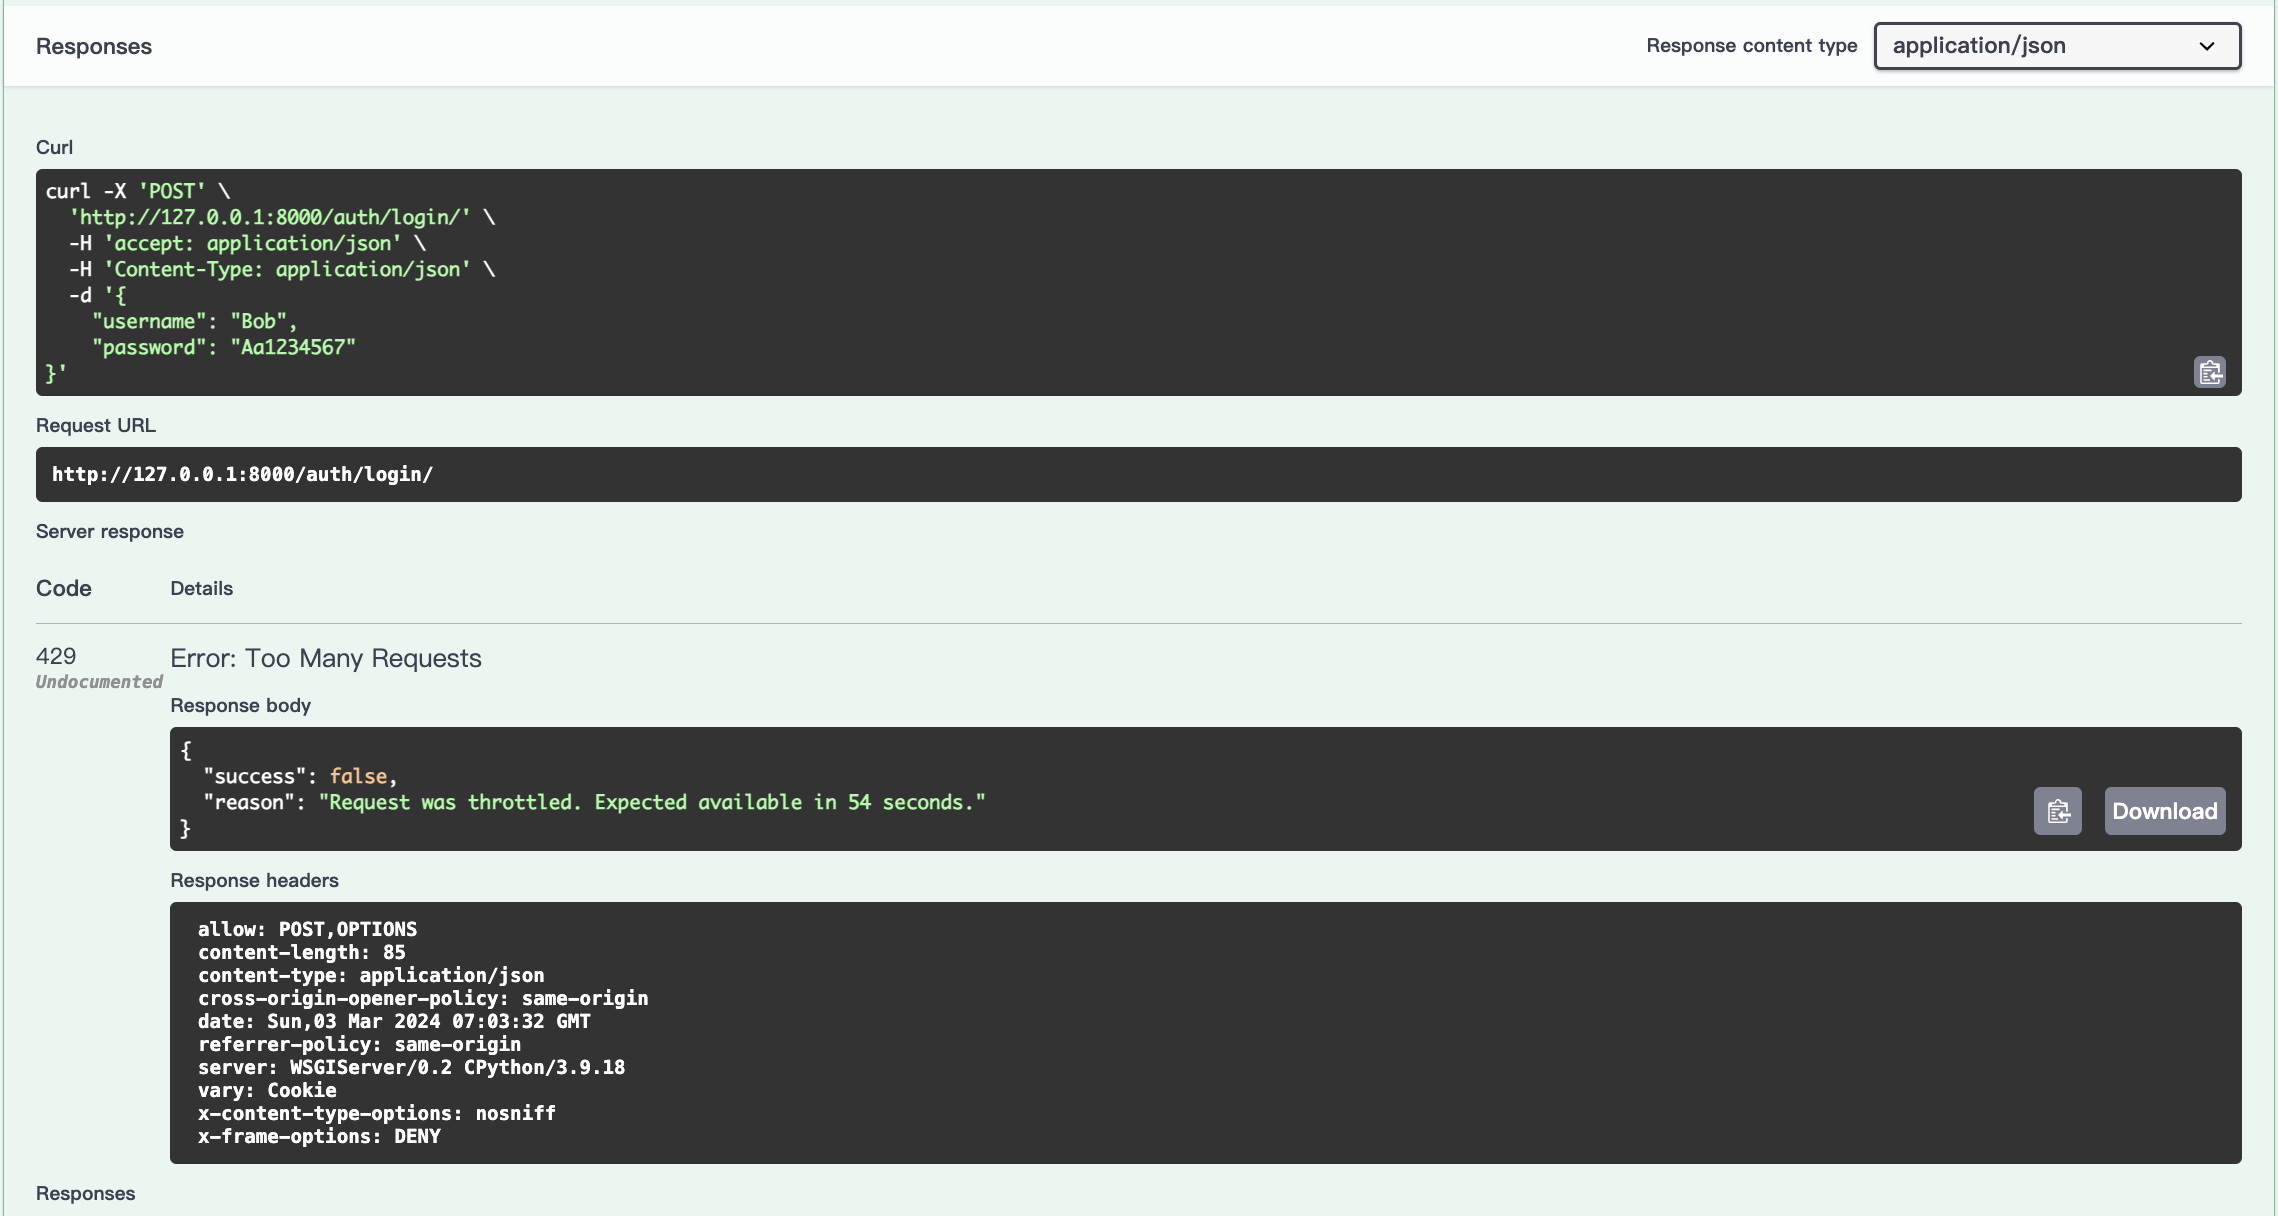
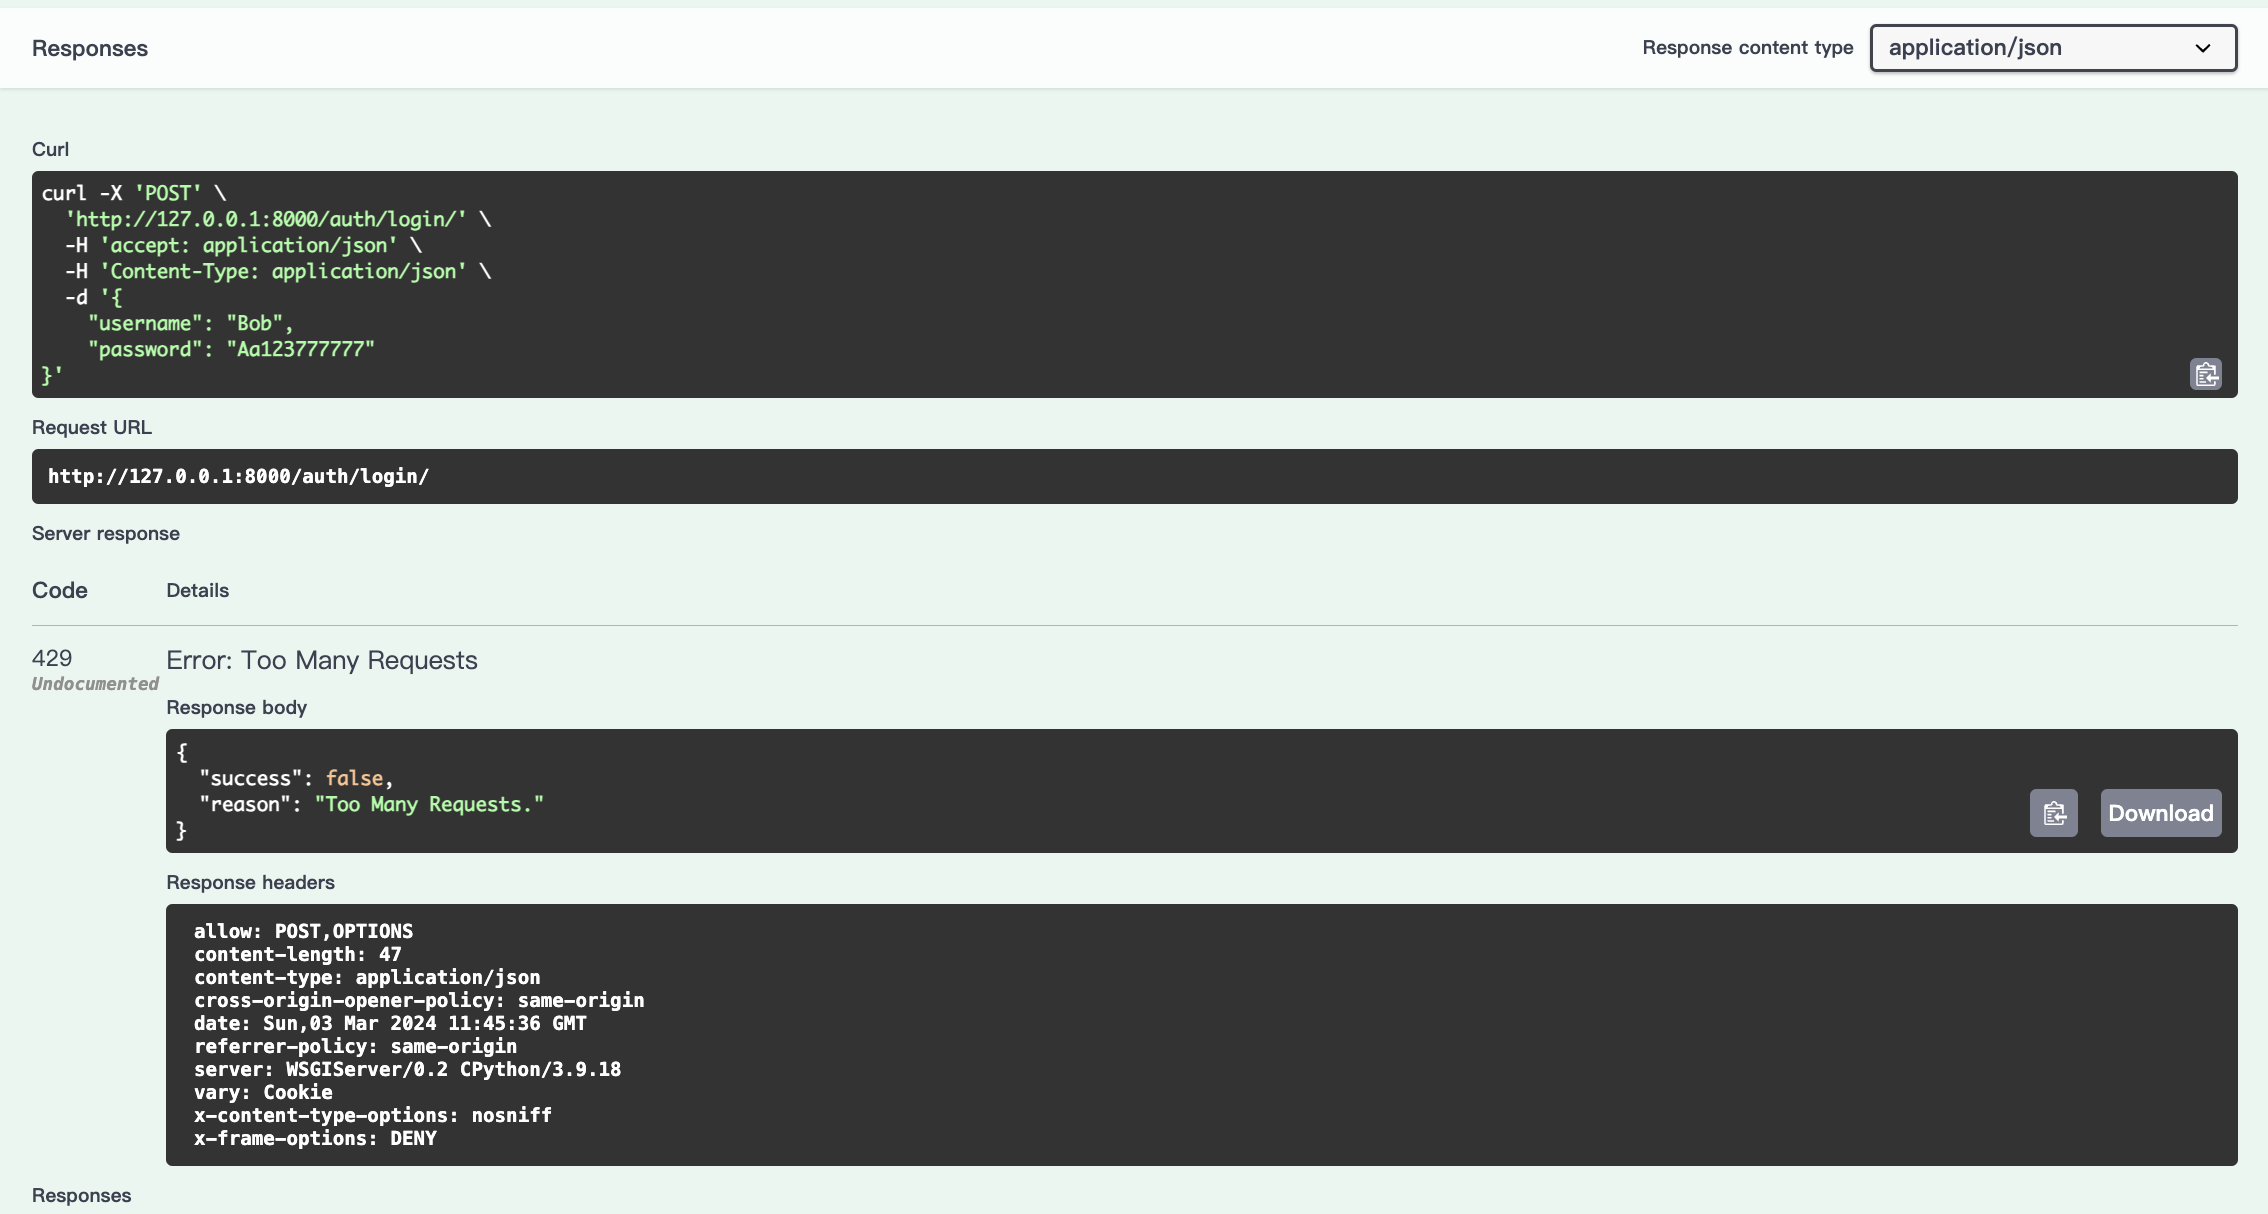
feat: add cache logic in login.

diff --git a/myproject/user/views.py b/myproject/user/views.py
@@ -56,6 +56,7 @@ class AuthViewSet(viewsets.ViewSet):
 
         # Cache get data
         if cache.get(data["username"]):
+            print("cached")
             raise serializers.ValidationError("User already exists.")
 
         # Check user whether is duplicate
@@ -74,7 +75,7 @@ class AuthViewSet(viewsets.ViewSet):
         # Cahce set data
         cache.set(
             key=user.username,
-            value=user.id,
+            value=user.password,
             timeout=60 * 5,  # in seconds (300s or 5min)
         )
 
@@ -119,16 +120,27 @@ class AuthViewSet(viewsets.ViewSet):
         times = cache.get(data["username"] + "_times")
         self.block_if_too_many_times(times)
 
-        # Filter
-        exists_user = User.objects.filter(username=data["username"])
-        # User is not existed.
-        if len(exists_user) == 0:
-            # Cache will count the error times
-            times = self.check_password_error_times(times, data)
-            raise serializers.ValidationError("Incorrect Username or Password.")
-        
+        # Cache
+        passwaord = cache.get(data["username"])
+        if passwaord is None:
+            print("no cached")
+            # Filter
+            exists_user = User.objects.filter(username=data["username"])
+            # User is not existed.
+            if len(exists_user) == 0:
+                # Cache will count the error times
+                times = self.check_password_error_times(times, data)
+                raise serializers.ValidationError("Incorrect Username or Password.")
+            
+            passwaord = exists_user[0].password
+            cache.set(
+                key=data["username"],
+                value=passwaord,
+                timeout=60 * 5,  # in seconds (5min)
+            )
+
         # User is existed, but password is incorrect.
-        if not check_password(data["password"], exists_user[0].password):
+        if not check_password(data["password"], passwaord):
             # Cache will count the error times
             times = self.check_password_error_times(times, data)
             raise serializers.ValidationError("Incorrect Username or Password.")

diff --git a/myproject/senao_network/settings.py b/myproject/senao_network/settings.py
@@ -11,20 +11,26 @@ https://docs.djangoproject.com/en/5.0/ref/settings/
 """
 
 from pathlib import Path
-
+import os
+import environ
 
 # Build paths inside the project like this: BASE_DIR / 'subdir'.
 BASE_DIR = Path(__file__).resolve().parent.parent
 
+# Initialise environment variables
+env = environ.Env()
+environ.Env.read_env(os.path.join(BASE_DIR, '.env'))
 
 # Quick-start development settings - unsuitable for production
 # See https://docs.djangoproject.com/en/5.0/howto/deployment/checklist/
 
 # SECURITY WARNING: keep the secret key used in production secret!
-SECRET_KEY = 'django-insecure-v*q8asd-a21v7lif#8ode64e45agcid^o#a-wo--07xww5gxm4'
+SECRET_KEY = env("SECRET_KEY")
 
 # SECURITY WARNING: don't run with debug turned on in production!
 DEBUG = True
+if env("MODE") == "prod":
+    DEBUG = False
 
 if DEBUG:
     INTERNAL_IPS = ["127.0.0.1"]
@@ -173,7 +179,7 @@ SWAGGER_SETTINGS = {
 CACHES = {
     "default": {
         "BACKEND": "django.core.cache.backends.redis.RedisCache",
-        "LOCATION": "redis://redis:6379/",
+        "LOCATION": env("REDIS_LOCATION"),
         "KEY_PREFIX": "imdb",
         "TIMEOUT": 60 * 15,  # in seconds: 60 * 15 (15 minutes)
     }

diff --git a/myproject/utils/exception.py b/myproject/utils/exception.py
@@ -12,8 +12,16 @@ def custom_exception_handler(exc, context):
         }, status=status.HTTP_500_INTERNAL_SERVER_ERROR, exception=True)
     else:
         msg = exc.args
+
         if len(exc.args) == 1:
             msg = exc.args[0]
+            if isinstance(msg, float):
+                return Response({
+                    'error': "Too Many Requests.",
+                }, status=response.status_code, exception=True)
+
+        if "non_field_errors" in msg:
+            msg = msg["non_field_errors"][0]
 
         return Response({
             'error': msg,

diff --git a/README.md b/README.md
@@ -31,6 +31,10 @@ git clone https://github.com/POABOB/django_senao_network.git
 cd django_senao_network
 # 從範例配置中，複製一份本地執行的配置
 cp -R ./compose/redis/redis.conf.example ./compose/redis/redis.conf
+cp -R ./myproject/.env.example ./myproject/.env
+
+# 修改專案配置
+nano ./myproject/.env
 ```
 
 ### 執行
@@ -51,8 +55,6 @@ docker build -t <username>/senao_network:lastest ./myproject
 # 部署 Docker Hub，<username> 為登入後的使用者名稱
 docker push <username>/senao_network:lastest
 ```
-
-- Docker Hub Repo: https://hub.docker.com/repository/docker/poabob/senao_network/general
 
 ### 如果沒有安裝 Docker 或 Docker Compose?
 
@@ -115,6 +117,7 @@ sudo chmod +x /usr/local/bin/docker-compose
     ```
     ![錯誤輸入1](./images/signup_incorrect_input1.png)
     ![錯誤輸入1回應](./images/signup_incorrect_input1_response.png)
+    ![錯誤輸入1回應](./images/signup_incorrect_input1_1_response.png)
     - 密碼沒有只少一個大寫、一個小寫和一個數字
     ```json
     {
@@ -146,12 +149,8 @@ sudo chmod +x /usr/local/bin/docker-compose
     - 超過 5 次
     ![錯誤輸入2回應](./images/login_incorrect_input2_response.png)
 
-- 請求參數規格
-
-- 回應參數規格
-
 - Rate Limiter
-    - Each IP can send 30 requests in one minite to ensure the pressure of server is low.
+    - Each IP can send 30 requests in one minute to ensure the pressure of server is low.
     ![限流](./images/rate_limiter.png)
 
 - Cache
